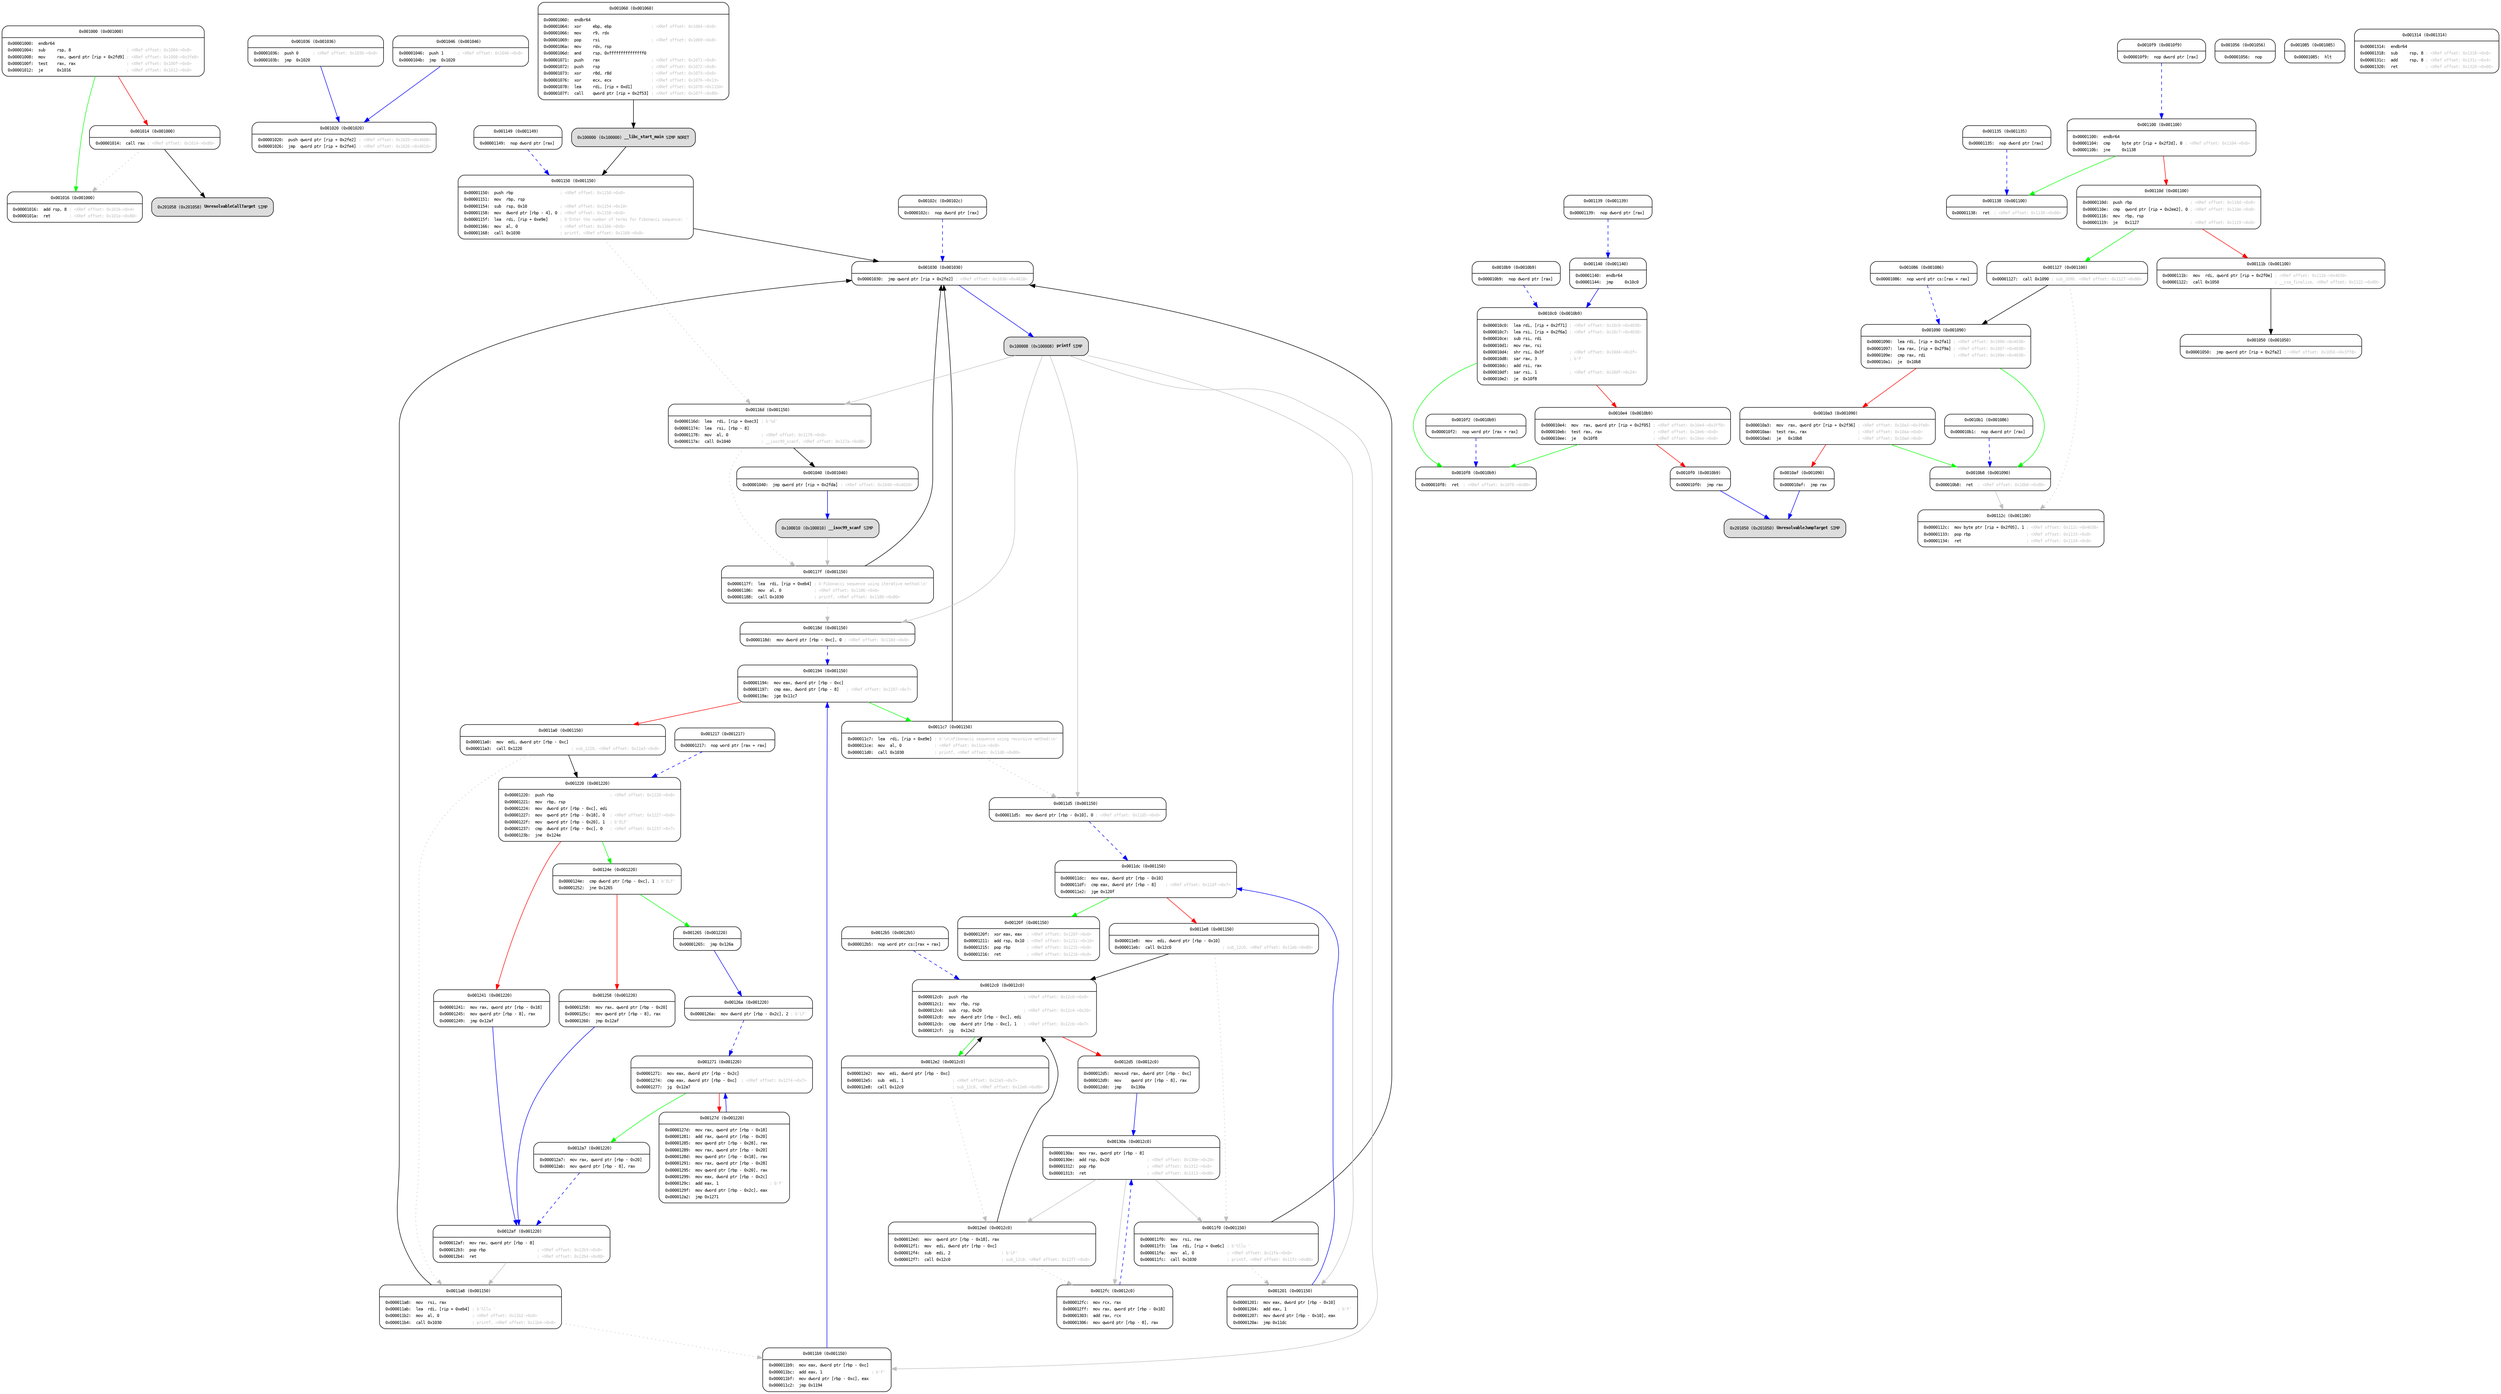
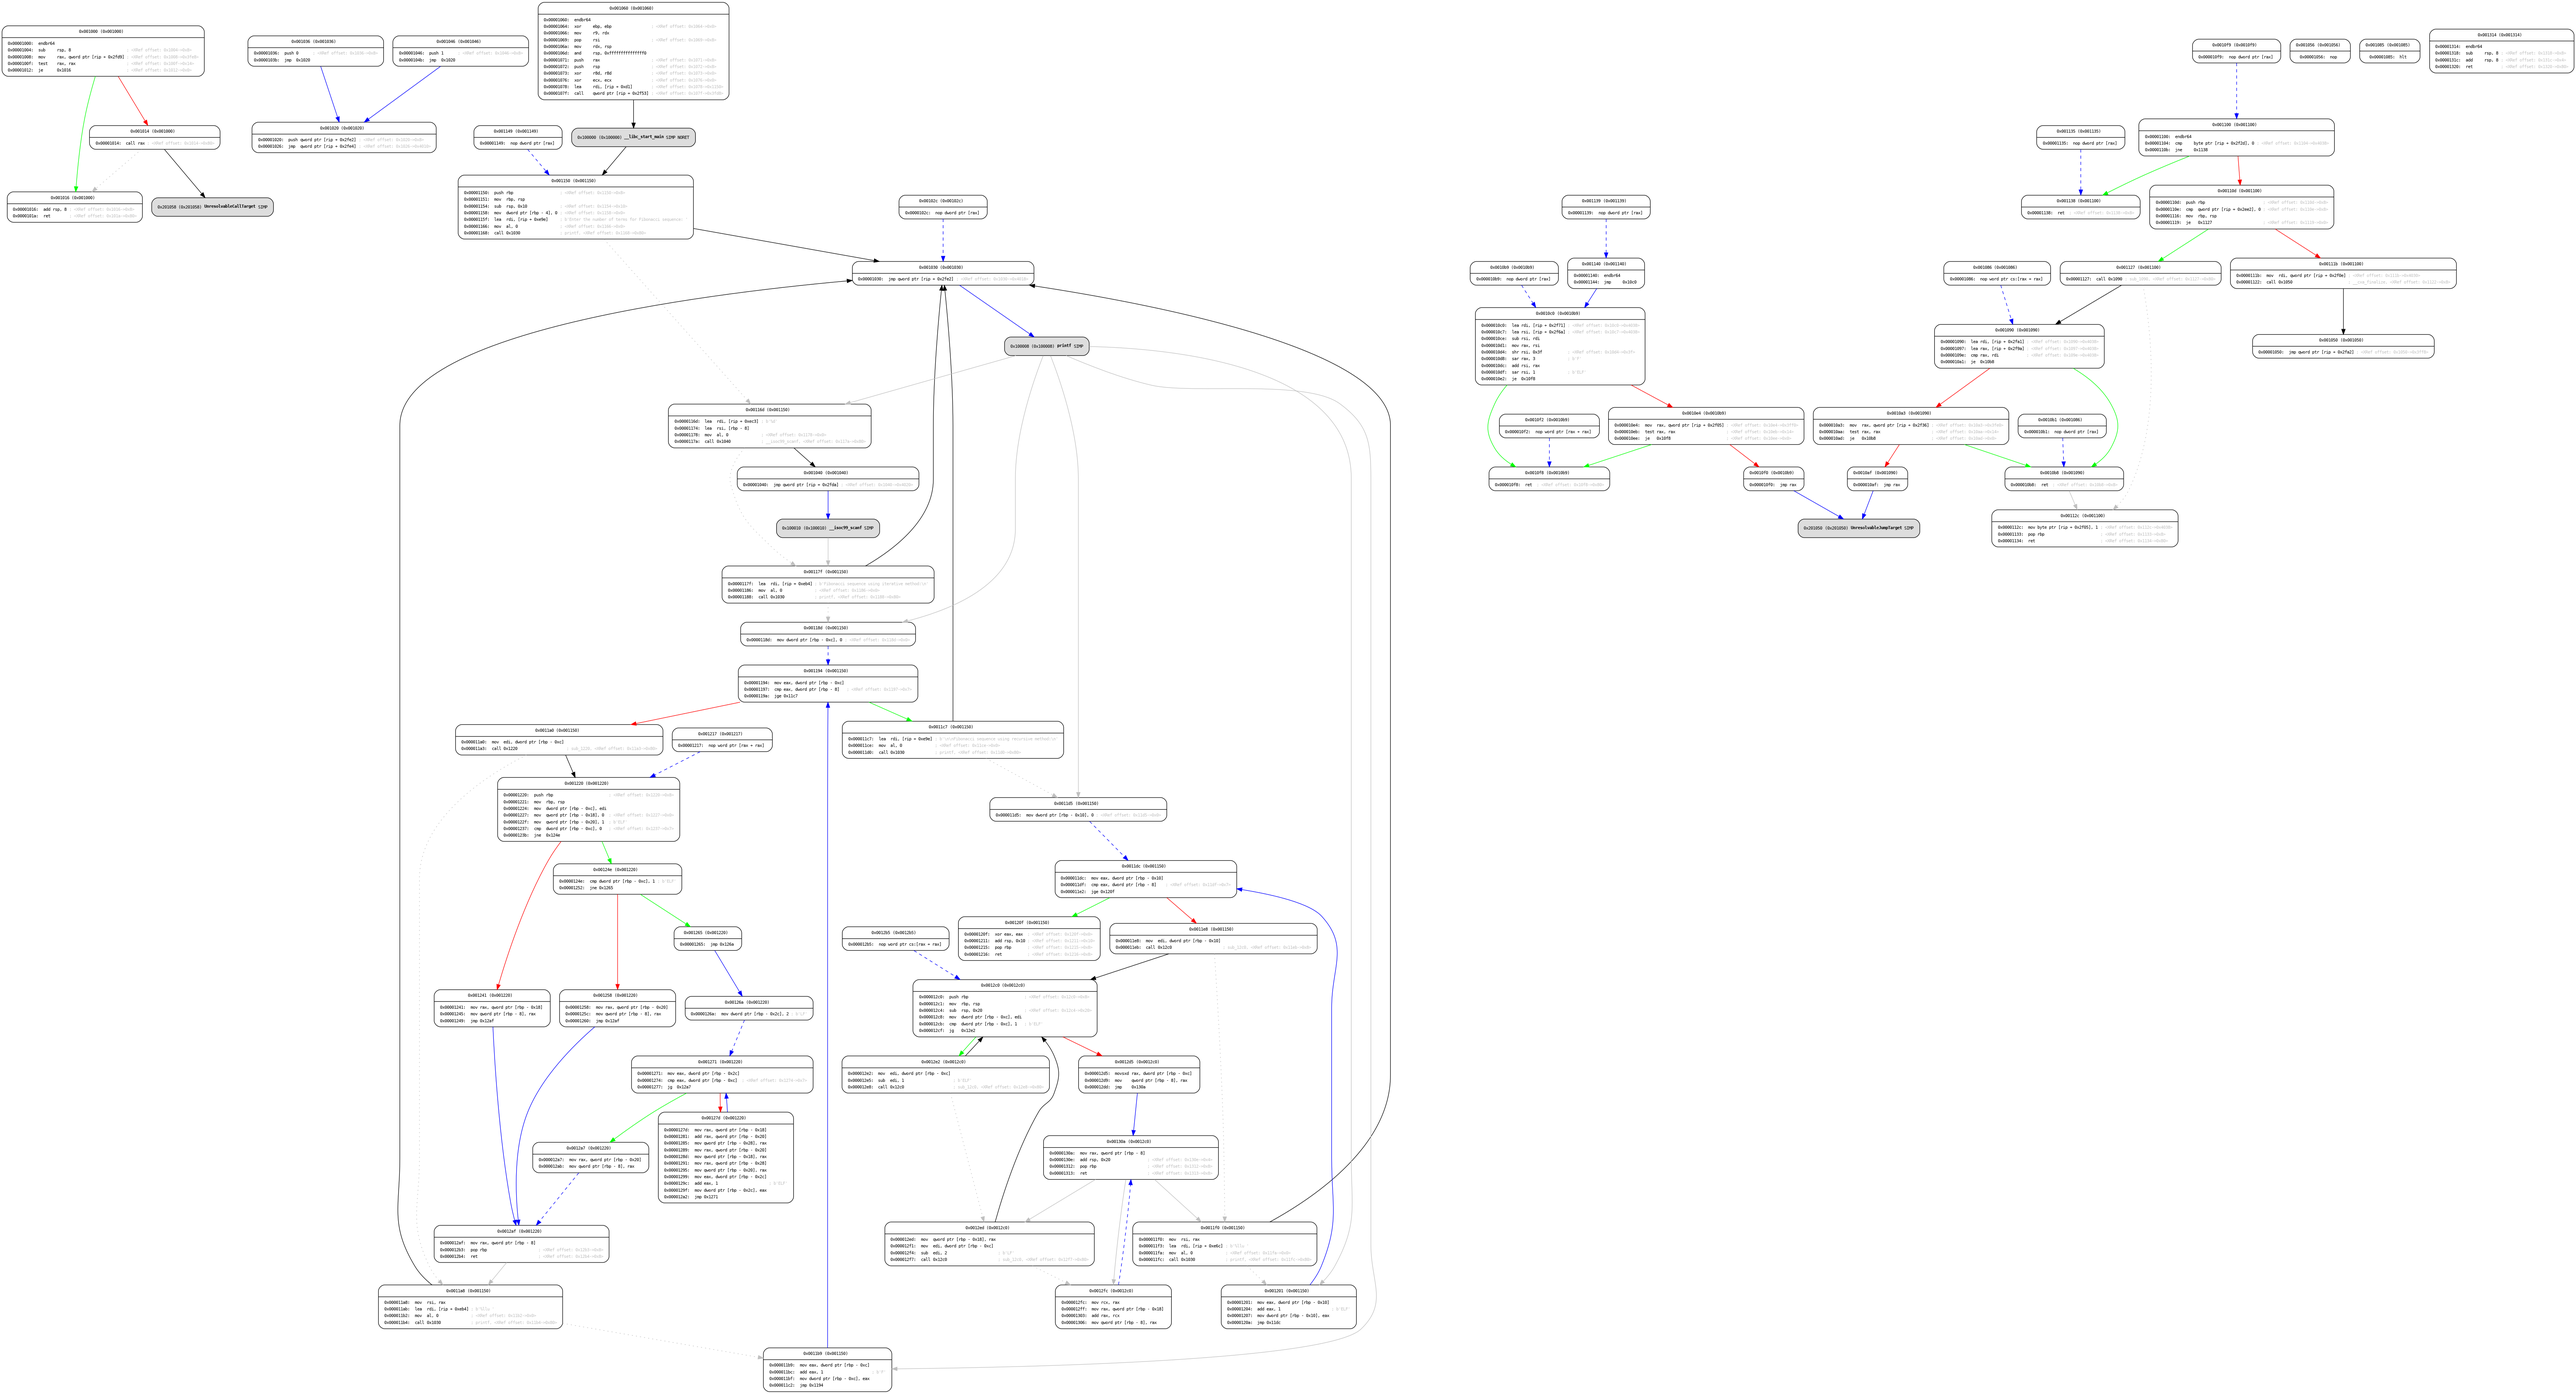
Add auto script and Put back fake_ret when rendering png

diff --git a/export_angr_graph.py b/export_angr_graph.py
@@ -40,7 +40,7 @@ def export_cfg_to_json(cfg, output_file):
         json.dump({'all_nodes': all_nodes, 'call_graph_edges': call_graph_edges}, f, indent=2)
 
 
-def dump_cfg(binary, cfg, cfg_type, no_call=False, no_png=True):
+def dump_cfg(binary, cfg, cfg_type, no_call=False, no_png=False):
     logger.info(f"Exporting info to {binary}__{cfg_type}.json")
     export_cfg_to_json(cfg, f'{binary}__{cfg_type}.json')
 

diff --git a/README.md b/README.md
@@ -11,7 +11,7 @@ Each directory contains the following files:
 - A `*__objdump.txt` that contains the output of simple disassembly of the binary file, along with each block's corresponding source code.
 - `*.json` contains the graph information of the corresponding binary to start visualizing with (generated with [angr](https://github.com/angr/angr). 
 - `*.png` is the existing visual representation generated with [bingraphvis](https://github.com/spencerwuwu/bingraphvis)
-- `*_nocall.png`, if presented, is the same graph above but remove call and return edges for simplicity (by ignoring *Ijk_Call*, *Ijk_Ret*, *Ijk_FakeRet* when rendering)
+- `*_nocall.png`, if presented, is the same graph above but remove call and return edges for simplicity (by ignoring *Ijk_Call*, *Ijk_Ret* when rendering the png)
 - A `compile.sh` to compile the program (`png_paser` uses a Makefile)
 
 ## Format of the JSON file
